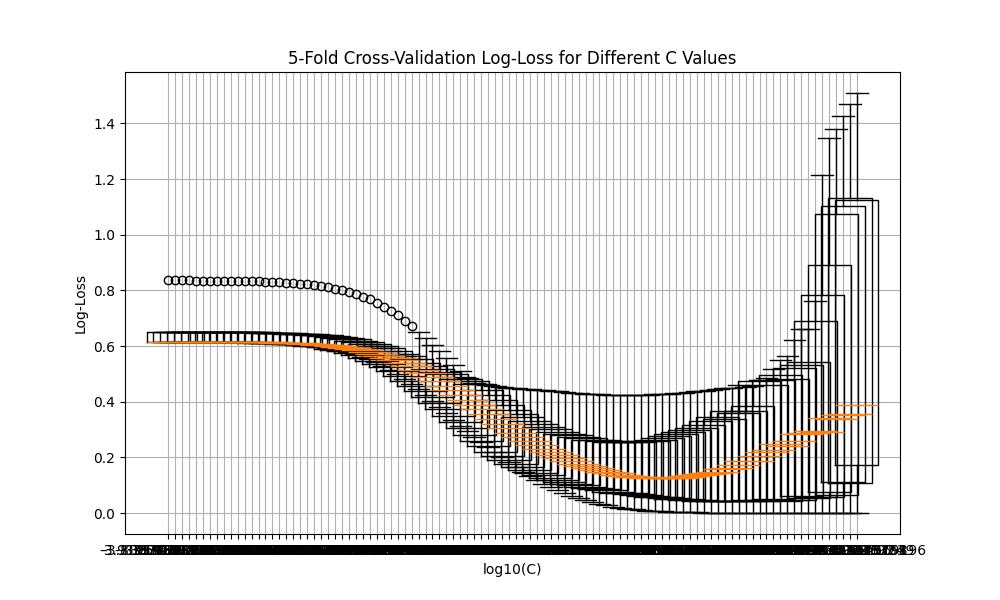
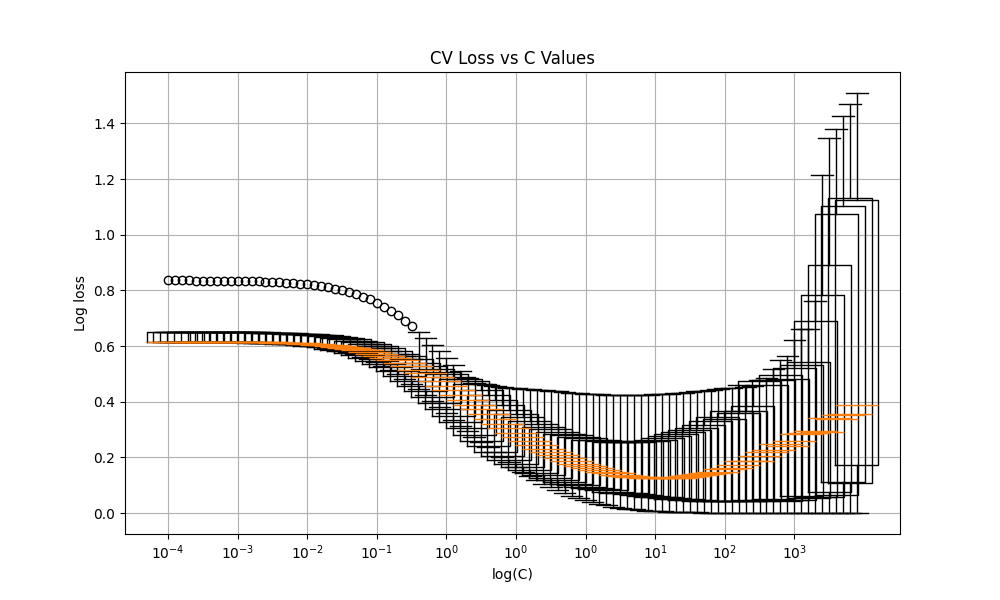
hw1 q2

diff --git a/homework1/solutions.py b/homework1/solutions.py
@@ -1,11 +1,11 @@
 import pandas as pd
 import numpy as np
 import matplotlib.pyplot as plt
-from sklearn.model_selection import train_test_split
+from sklearn.model_selection import train_test_split, GridSearchCV, KFold
 from sklearn.linear_model import LogisticRegression
 from sklearn.metrics import log_loss, accuracy_score
 
-# pd.set_option('future.no_silent_downcasting', True)
+pd.set_option('future.no_silent_downcasting', True)
 
 df = pd.read_csv("heart.csv")
 
@@ -38,7 +38,7 @@ X['Smoker'] = X['Smoker'].replace(smoker_category_map)
 #           - blood pressure -> systolic, diastolic
 #           - # `.str.split()` splits, `expand` returns dataframes to be put into cols
 X[['Systolic', 'Diastolic']] = X['Blood_Pressure'].str.split('/', expand=True).astype(float)
-X.drop(columns=['Blood_Pressure'], inplace=True)                                                # 
+X.drop(columns=['Blood_Pressure'], inplace=True)
 
 # Part (E): - form datasets from dataframes i.e. arrays
 #           - shuffle and proportionally split the dataset into training and testing
@@ -51,10 +51,10 @@ def impute_age(df, col):
     medians = df.groupby('Gender')['Age'].median()      # doesn't include NaN values
     def do_impute_age(row):
         if pd.isnull(row['Age']):
-            return medians[row['Gender']]                   # use index medians with gender value of row
+            return medians[row['Gender']]               # use index medians with gender value of row
         return row['Age']
-    df[col] = df.apply(do_impute_age, axis=1)
-impute_age(X_train, 'Age')                                      # axis=1 -> row-wise/down the coln
+    df[col] = df.apply(do_impute_age, axis=1)           # axis=1 -> row-wise/down the coln
+impute_age(X_train, 'Age')                                      
 impute_age(X_test, 'Age')              
 
 # Part (G): - modify a column
@@ -65,31 +65,30 @@ def normalise_cols(df):
     for col in cols_to_noramlise:
         min_val =  df[col].min()
         max_val = df[col].max()
-        df[col] = (df[col] - min_val)/(max_val - min_val)
+        df[col] = (df[col] - min_val)/(max_val - min_val)       # separately
 normalise_cols(X_train)
-normalise_cols(X_test)                                  # for this, test doesn't use metrics from train       
+normalise_cols(X_test)                                          # for this, test doesn't use metrics from train      
 
 # Part (H): - plotting histogram from list of values i.e. how many of each value occurs
 #           - for each value of heart disease, how manny instances
 #           - `plt.hist` makes 'plot' instance to be added with axis title, labels, data, etc.
-plt.hist(y_train, bins=20, edgecolor='black')
+plt.hist(y_train, bins=20, edgecolor='black')       # split heart disease values into 20 intervals 
 plt.xlabel('Heart disease')
 plt.ylabel('Frequency')
 plt.title('Histogram of heart disease values')
-plt.savefig('hist_initial.png')
+plt.savefig('hist_initial.png')                     # save because can't plot
 
 # Part (H): - modify labels
 #           - quantise heart disease values
 #           - act on coln as if it's an 'elt-wise operating' variable
 k = 0.1
-y_train_qnt = (y_train > k).astype(int)
-y_test_qnt = (y_test > k).astype(int)
+y_train_qnt, y_test_qnt = (y_train > k).astype(int), (y_test > k).astype(int)
 plt.clf()                                               # clear histogram
 plt.hist(y_train_qnt, bins=20, edgecolor='black')       # split vals into 20 intervals
 plt.xlabel('Heart Disease')
 plt.ylabel('Frequency')
 plt.title('Target Variable Histogram')
-plt.savefig('hist_quantised.png')                       # save because can't plot
+plt.savefig('hist_quantised.png')
 
 ###################################################################################################
 #
@@ -97,76 +96,97 @@ plt.savefig('hist_quantised.png')                       # save because can't plo
 #
 ###################################################################################################
 
-# Part (A): - 
+# Part (B): - fit a model to a set of hyperparameters
+#           - `logspace(p1, p2, p3)` generates p3 values between p1 and p2 log-equally distributed
+#           - `LogisticRegression(c, p, s)` makes a shell logistic regression hypothesis
+#           - `fit(X, y)` trains hypothesis on X and y
+#           - `predict_proba(X)` predicts probability of each class for each vec in X
+#           - `log_loss(y_true, y_pred)` gives sum of cross entropy loss of each sample
 vals = np.logspace(-4, 4, 100)
 train_losses = []
 test_losses = []
 for val in vals:
     m = LogisticRegression(C=val, penalty='l2', solver='lbfgs')
     m.fit(X_train, y_train_qnt) 
-    y_train_prob = m.predict_proba(X_train)
-    y_test_prob = m.predict_proba(X_test)
+    y_train_prob, y_test_prob = m.predict_proba(X_train), m.predict_proba(X_test)
     train_losses.append(log_loss(y_train_qnt, y_train_prob))
     test_losses.append(log_loss(y_test_qnt, y_test_prob))
 plt.figure(figsize=(8, 6))
+plt.title('Log Loss vs C')
 plt.plot(vals, train_losses, label='Train log loss', marker='o')
-plt.plot(vals, test_losses, label='Test log loss', marker='s')
-plt.xscale('log')
+plt.plot(vals, test_losses, label='Test log loss', marker='o')
 plt.xlabel('C')
+plt.xscale('log')                                                       # scale in log for visibility
 plt.ylabel('Log loss')
-plt.title('Log loss vs C')
 plt.legend()
 plt.grid()
 plt.savefig('loss_vs_C.png')
 
-# C:
-# (j) Perform 5-fold cross-validation for different C values
-C_values = np.logspace(-4, 4, 100)
-cv_results = []
+# Part (C): - perform k-fold cross validation
+# (i)       - `df.iloc(*)` = integer-location based indexing based on *; [i1:i2] gives [i1, i2) 
+vals = np.logspace(-4, 4, 100)
+fold_size = len(X_train) // 5
 
-N = len(X_train)
-fold_size = N // 5
-
-for C in vals:
+cv_results = []                                                                             # loss values for each of 20 test samples over 5 folds
+for val in vals:
     fold_losses = []
-    
+
     for i in range(5):
         start, end = i * fold_size, (i + 1) * fold_size
-        X_val, y_val = X_train.iloc[start:end], y_train_qnt.iloc[start:end]
-        X_train_fold = pd.concat([X_train.iloc[:start], X_train.iloc[end:]])
-        y_train_fold = pd.concat([y_train_qnt.iloc[:start], y_train_qnt.iloc[end:]])
         
-        model = LogisticRegression(C=C, penalty='l2', solver='lbfgs')
-        model.fit(X_train_fold, y_train_fold)
-        y_val_prob = model.predict_proba(X_val)[:, 1]
-        fold_losses.append(log_loss(y_val, y_val_prob))
+        X_test_fold, y_test_fold = X_train.iloc[start:end], y_train_qnt.iloc[start:end]     # set testing fold to be ith fold
+        X_train_fold = pd.concat([X_train.iloc[:start], X_train.iloc[end:]])                # training is everything outside iloc
+        y_train_fold = pd.concat([y_train_qnt.iloc[:start], y_train_qnt.iloc[end:]])        # labels match training
+        
+        m = LogisticRegression(C=val, penalty='l2', solver='lbfgs')
+        m.fit(X_train_fold, y_train_fold)
+        y_pred = m.predict_proba(X_test_fold)
+
+        fold_losses.append(log_loss(y_test_fold, y_pred))                                   # cross-entropy from tute3
     
     cv_results.append(fold_losses)
 
-# (k) Plot boxplot of log-loss for different C values
 plt.figure(figsize=(10, 6))
-plt.boxplot(cv_results, positions=np.log10(C_values))
-plt.xlabel('log10(C)')
-plt.ylabel('Log-Loss')
-plt.title('5-Fold Cross-Validation Log-Loss for Different C Values')
+plt.title('CV Loss vs C Values')                                                            # for legibility, read every 10th label
+plt.xlabel('log(C)')
+plt.ylabel('Log loss')
+plt.boxplot(cv_results, positions=np.log10(vals))
+plt.xticks(np.log10(vals)[::10], labels=[f'$10^{{{int(np.log10(val))}}}$' for val in vals[::10]])
 plt.grid()
 plt.savefig('CV_loss_vs_C.png')
 
-# (l) Select best C based on median log-loss
-median_losses = [np.median(losses) for losses in cv_results]
-best_C = C_values[np.argmin(median_losses)]
-print(f'Best C: {best_C}')
-
-# (m) Train final model with best C
-final_model = LogisticRegression(C=best_C, penalty='l2', solver='lbfgs')
-final_model.fit(X_train, y_train_qnt)
-
-y_train_pred = final_model.predict(X_train)
-y_test_pred = final_model.predict(X_test)
-
-train_accuracy = accuracy_score(y_train_qnt, y_train_pred)
-test_accuracy = accuracy_score(y_test_qnt, y_test_pred)
-
+# Part (C): - select the C with the 'best' results
+# (ii)      - print results with this model
+mean_losses = [np.mean(losses) for losses in cv_results]        # use mean over folds as per k-fold CV
+min_mean_C = vals[np.argmin(mean_losses)]
+print(f'C for smallest mean log loss: {min_mean_C}')
+m2 = LogisticRegression(C=min_mean_C, penalty='l2', solver='lbfgs')
+m2.fit(X_train, y_train_qnt)
+y_train_pred, y_test_pred = m2.predict(X_train), m2.predict(X_test)
+train_accuracy, test_accuracy = accuracy_score(y_train_qnt, y_train_pred), accuracy_score(y_test_qnt, y_test_pred)
 print(f'Train Accuracy: {train_accuracy:.4f}')
 print(f'Test Accuracy: {test_accuracy:.4f}')
 
+# Part (D): - use sklearn implementation of grid search
+#           - `param_grid` = dict of parameters and possible vals
+#           - `GridSearchCV(est, cv, grid)` applies grid search to find best value for the est with additional params i.e. cv
+param_grid = {'C': vals}
+grid_lr = GridSearchCV(
+    estimator=LogisticRegression(penalty='l2',solver='lbfgs'),
+    cv=5,
+    param_grid=param_grid)
+grid_lr.fit(X_train, y_train_qnt)
+found_C = grid_lr.best_params_['C']
+print(f'GridSearchCV found: {found_C}')
+
+# source: https://scikit-learn.org/stable/modules/generated/sklearn.model_selection.GridSearchCV.html#sklearn.model_selection.GridSearchCV.score
+kf = KFold(n_splits=5, shuffle=False)
+grid_lr = GridSearchCV(
+    estimator=LogisticRegression(penalty='l2',solver='lbfgs'),
+    cv=kf,                      # is normally stratified (preserves labels)
+    param_grid=param_grid,
+    scoring='neg_log_loss',     # normally uses mean accuracy rather than log loss!!  
+    refit=False)
+grid_lr.fit(X_train, y_train_qnt)
+found_C = grid_lr.best_params_['C']
+print(f'Adjusted GridSearchCV found: {found_C}')
